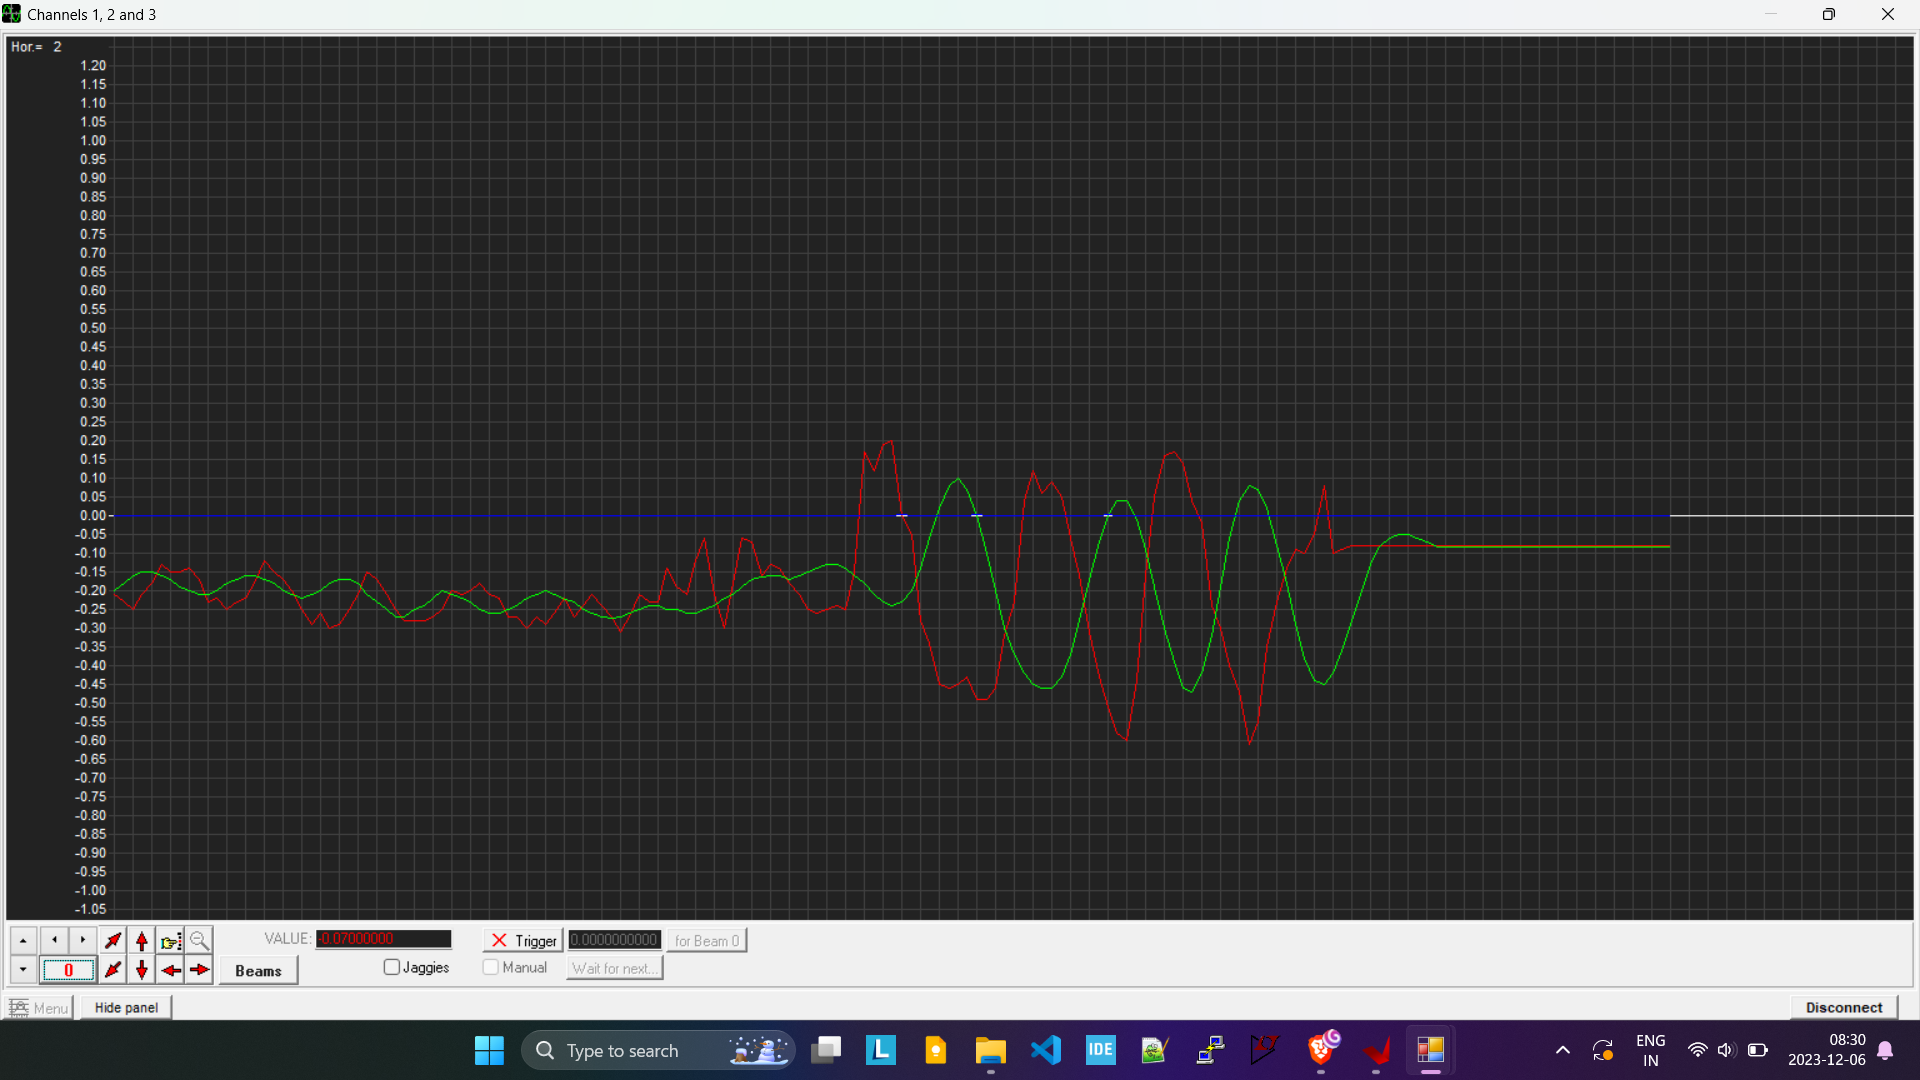
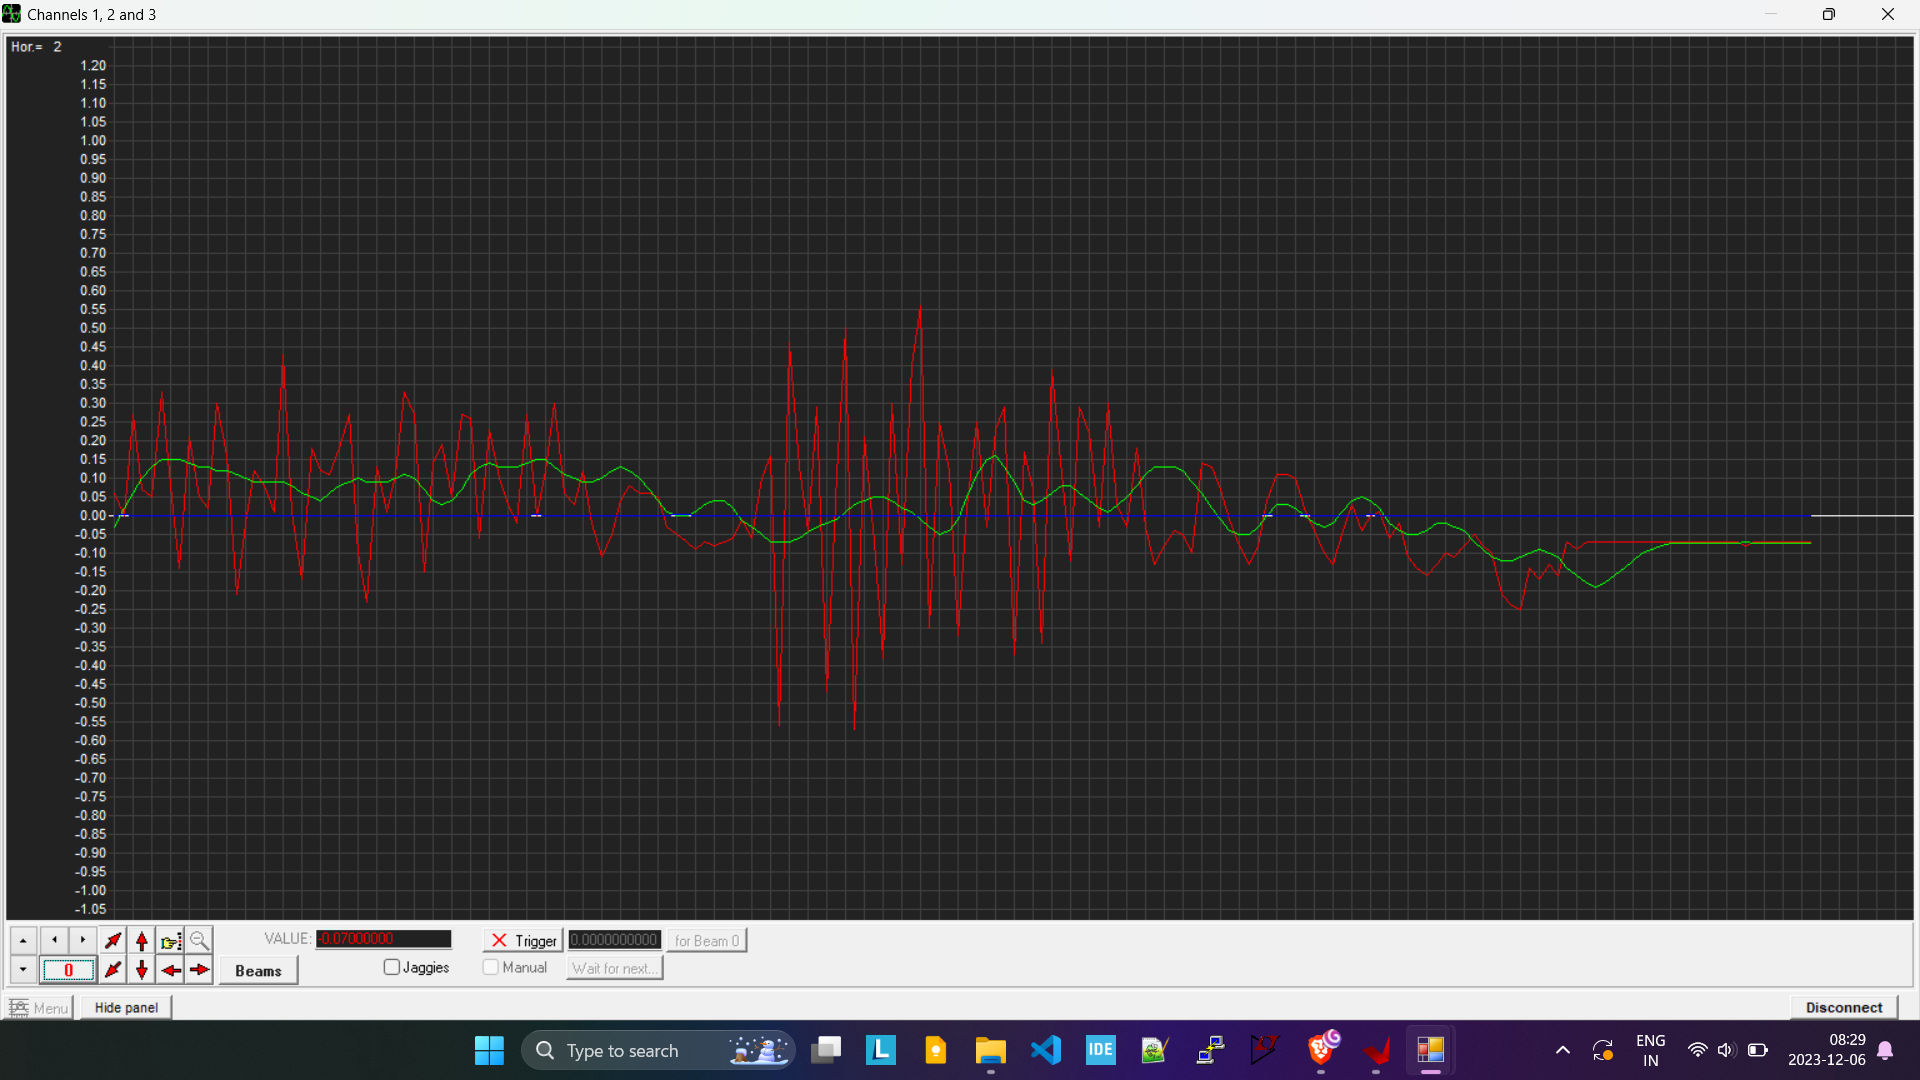
image updated

diff --git a/README.md b/README.md
@@ -38,6 +38,12 @@ Demonstrating the sensor interface through SPI and implementation of FIR filter 
 
 ## Result
 
+|Legend					|
+|-----------|-----------|
+|Red		|Green		|
+|-----------|-----------|
+|Unfiltered	|Filtered	|
+
 <p align="center">
   <img src="images/filter_in_action.png" width="650" title="FIR Filter in Action">
 </p>
